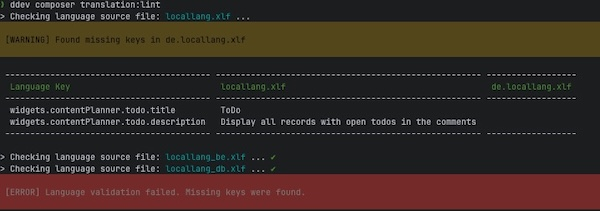
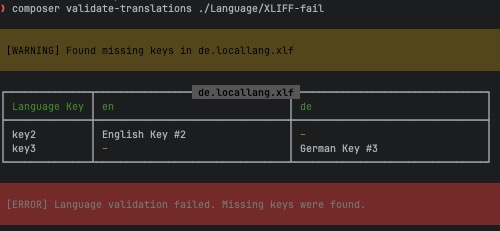
fix: improve two-two-way-mismatch validation

diff --git a/src/Command/ValidateTranslationCommand.php b/src/Command/ValidateTranslationCommand.php
@@ -133,6 +133,7 @@ class ValidateTranslationCommand extends BaseCommand
         $hasErrors = false;
 
         foreach ($fileDetector->mapTranslationSet($allFiles) as $sourceFile => $targetFiles) {
+            /* @var ParserInterface $source */
             $source = new ($parserClass ?: ParserUtility::resolveParserClass($sourceFile))($sourceFile);
             $sourceHasErrors = false;
             $this->debug('> Checking language source file: <fg=gray>'.$source->getFileDirectory().'</><fg=cyan>'.$source->getFileName().'</> ...', newLine: $this->output->isVeryVerbose());
@@ -145,11 +146,12 @@ class ValidateTranslationCommand extends BaseCommand
             }
 
             foreach ($targetFiles as $targetFile) {
+                /* @var ParserInterface $target */
                 $target = new $parserClass($targetFile);
                 $this->debug('> Checking language target file: '.$target->getFileDirectory().$target->getFileName().' ...', veryVerbose: true);
-                $missingKeys = array_diff($sourceKeys, $target->extractKeys());
+                $missingKeys = [...array_diff($sourceKeys, $target->extractKeys()), ...array_diff($target->extractKeys(), $sourceKeys)];
 
-                if ($missingKeys) {
+                if (!empty($missingKeys)) {
                     $this->debug('> Validation result: ', veryVerbose: true, newLine: false);
                     $this->debug(' <fg=red>✘</>');
                     $this->io->warning('Found missing keys in '.$target->getFilePath());
@@ -158,7 +160,7 @@ class ValidateTranslationCommand extends BaseCommand
                         ->setColumnWidths([10, 30, 30])
                         ->setHeaderTitle($target->getFileName())
                         ->setHeaders(['Language Key', $source->getLanguage(), $target->getLanguage()])
-                        ->setRows(array_map(fn ($key) => [$key, $source->getContentByKey($key), $target->getContentByKey($key)], $missingKeys))
+                        ->setRows(array_map(static fn ($key) => [$key, $source->getContentByKey($key) ?: '<fg=yellow>–</>', $target->getContentByKey($key, 'target') ?: '<fg=yellow>–</>'], $missingKeys))
                         ->setStyle('box')
                         ->render();
 
@@ -194,7 +196,7 @@ class ValidateTranslationCommand extends BaseCommand
             return 1;
         }
 
-        $message = 'Language validation succeeded. All keys are present in the target files.';
+        $message = 'Language validation succeeded. No translation mismatches found.';
         $this->output->isVerbose() ? $this->io->success($message) : $this->output->writeln('<fg=green>'.$message.'</>');
 
         return 0;

diff --git a/src/Parser/XliffParser.php b/src/Parser/XliffParser.php
@@ -39,11 +39,11 @@ class XliffParser implements ParserInterface
         return $keys;
     }
 
-    public function getContentByKey(string $key): ?string
+    public function getContentByKey(string $key, string $attribute = 'source'): ?string
     {
         foreach ($this->xml->file->body->{'trans-unit'} as $unit) {
             if ((string) $unit['id'] === $key) {
-                return ('' !== (string) $unit->source) ? (string) $unit->source : null;
+                return ('' !== (string) $unit->{$attribute}) ? (string) $unit->{$attribute} : null;
             }
         }
 

diff --git a/README.md b/README.md
@@ -1,13 +1,13 @@
 # Composer translation validator plugin
 
-A Composer plugin that validates translation files in your project regarding mismatches between language source and target files.
+A Composer plugin that validates translation files in your project regarding mismatches between language files.
 
 ## Features
 
-* Autodetect according source and target files
+* Autodetect according language files
 * Detects missing translations
 * Supports the following formats:
-  * XLIFF
+  * XLIFF - `*.xlf`, `*.xliff`
 
 ## Installation
 
